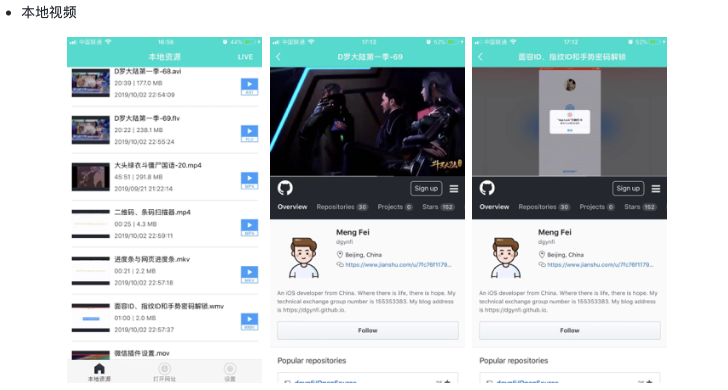
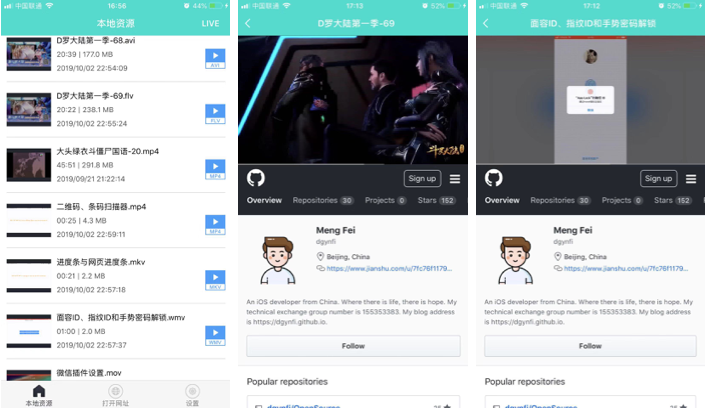
update

diff --git a/_posts/2017-06-29-QPlayer一款你不容错过的视频播放器.md b/_posts/2017-06-29-QPlayer一款你不容错过的视频播放器.md
@@ -20,26 +20,22 @@ tag: iOS
 
 ## Group (ID:15535338)
 
-![qq：155353383](https://dgynfi.github.io/img/qrcode/qq155353383.jpg)
+![qq: 155353383](https://dgynfi.github.io/img/qrcode/qq155353383.jpg)
 
 
 ## Preview
 
 - Local videos
-
 ![local_video.png](https://dgynfi.github.io/img/qplayer-preview/local_video.png)
 
 - TV and radio
-
-![qtv_broadcast.png](https://dgynfi.github.io/img/qplayer-preview/tv_broadcast.png)
+![qtv_broadcast.png](https://dgynfi.github.io/img/qplayer-preview/tv_radio.png)
 
 - Lives 
-
 ![live_web.png](https://dgynfi.github.io/img/qplayer-preview/live_web.png)
 
 - Web videos
-
-![web_remote_video.png](https://dgynfi.github.io/img/qplayer-preview/web_remote_video.png)
+![web_remote_video.png](https://dgynfi.github.io/img/qplayer-preview/web_video.png)
 
 
 ## Requirements
@@ -50,57 +46,46 @@ tag: iOS
 ## Open Source Components
 
 - [AFNetworking](https://github.com/AFNetworking/AFNetworking)
-
 &emsp; A delightful networking framework for iOS, macOS, watchOS, and tvOS. 
 
 - [SDWebImage](https://github.com/SDWebImage/SDWebImage)
-
 &emsp; This library provides an async image downloader with cache support. For convenience, we added categories for UI elements like UIImageView, UIButton, MKAnnotationView.
 
 - [ijkplayer](https://github.com/bilibili/ijkplayer) 
-
 &emsp; Android/iOS video player based on FFmpeg n3.4, with MediaCodec, VideoToolbox support. 
 
 &emsp; [IJKMediaFramework.framework Download](https://pan.baidu.com/s/1WCZzdCUiaQL3a1yJSD22QQ) - 链接: `https://pan.baidu.com/s/1WCZzdCUiaQL3a1yJSD22QQ` 提取码: mxqq
 
 - [MBProgressHUD](https://github.com/jdg/MBProgressHUD)
-
 &emsp; MBProgressHUD is an iOS drop-in class that displays a translucent HUD with an indicator and/or labels while work is being done in a background thread. The HUD is meant as a replacement for the undocumented, private UIKit UIProgressHUD with some additional features.
 
 - [MJRefresh](https://github.com/CoderMJLee/MJRefresh)
-
 &emsp; An easy way to use pull-to-refresh.
 
 - [FDFullscreenPopGesture](https://github.com/forkingdog/FDFullscreenPopGesture) 
-
 &emsp; A UINavigationController's category to enable fullscreen pop gesture with iOS7+ system style.
 
 - [PYSearch](https://github.com/ko1o/PYSearch)
-
 &emsp; 🔍 An elegant search controller which replaces the UISearchController for iOS (iPhone & iPad) .
 
 - [CocoaWebResource](https://github.com/robin/cocoa-web-resource)
-
 &emsp; A file transfer solution for iPhone and iPod Touch. Support uploading, download and delete files via browser.
 
 - [ZFPlayer](https://github.com/renzifeng/ZFPlayer) 
-
 &emsp; Support customization of any player SDK and control layer(支持定制任何播放器SDK和控制层)
 
 - [KSYMediaPlayer_iOS](ttps://github.com/ksvc/KSYMediaPlayer_iOS)
-
 &emsp; 金山云iOS播放SDK（KSYUN Live Streaming player SDK），支持RTMP HTTP-FLV HLS 协议（supporting RTMP HTTP-FLV HLS protocol）。与系统播放器MPMoviePlayerController接口一致，可以无缝快速切换至KSYMediaPlayer；本地全媒体格式支持, 并对主流的媒体格式(mp4, avi, wmv, flv, mkv, mov, rmvb 等 )进行优化；支持广泛的流式视频格式, HLS, RTMP, HTTP Rseudo-Streaming 等；低延时直播体验，配合金山云推流sdk，可以达到全程直播稳定的4秒内延时；实现快速满屏播放，为用户带来更快捷优质的播放体验；支持画面旋转，音量调节等各种功能。
 
 - [SVBlurView](https://github.com/TransitApp/SVBlurView)
-
 &emsp; SVBlurView is a simple reimplementation of FXBlurView for iOS 7. It uses Apple's UIImage+ImageEffects category as well as the new drawViewHierarchyInRect: UIView API. It doesn't do dynamic blurs yet.
 
 - [MBProgressHUD-JDragon](https://github.com/lyc59621/MBProgressHUD-JDragon)
-
 &emsp; 封装MBProgressHUD的一个类别。
 
 
 ## Pods for QPlayer
+
 ```
 # Pods for QPlayer
 pod 'AFNetworking'
@@ -119,4 +104,3 @@ pod 'FDFullscreenPopGesture', '~> 1.1'
 ```
 
 &emsp; If you think it can help you, please go to my github project and give it a [star](https://github.com/dgynfi/QPlayer). Thanks!
-
